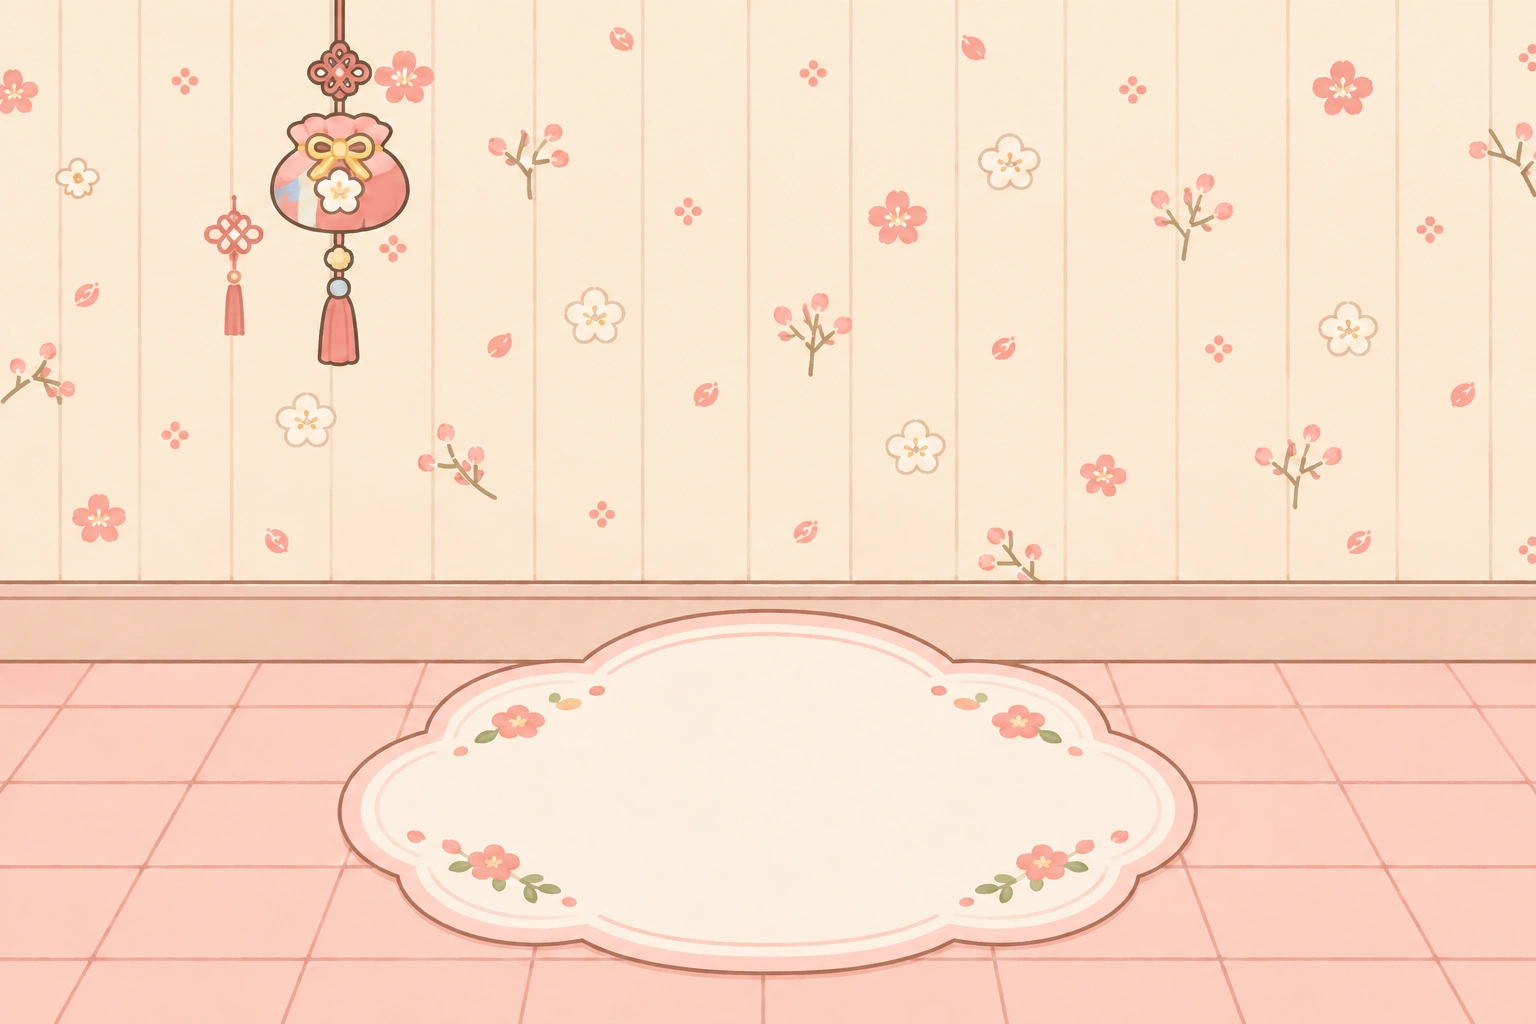
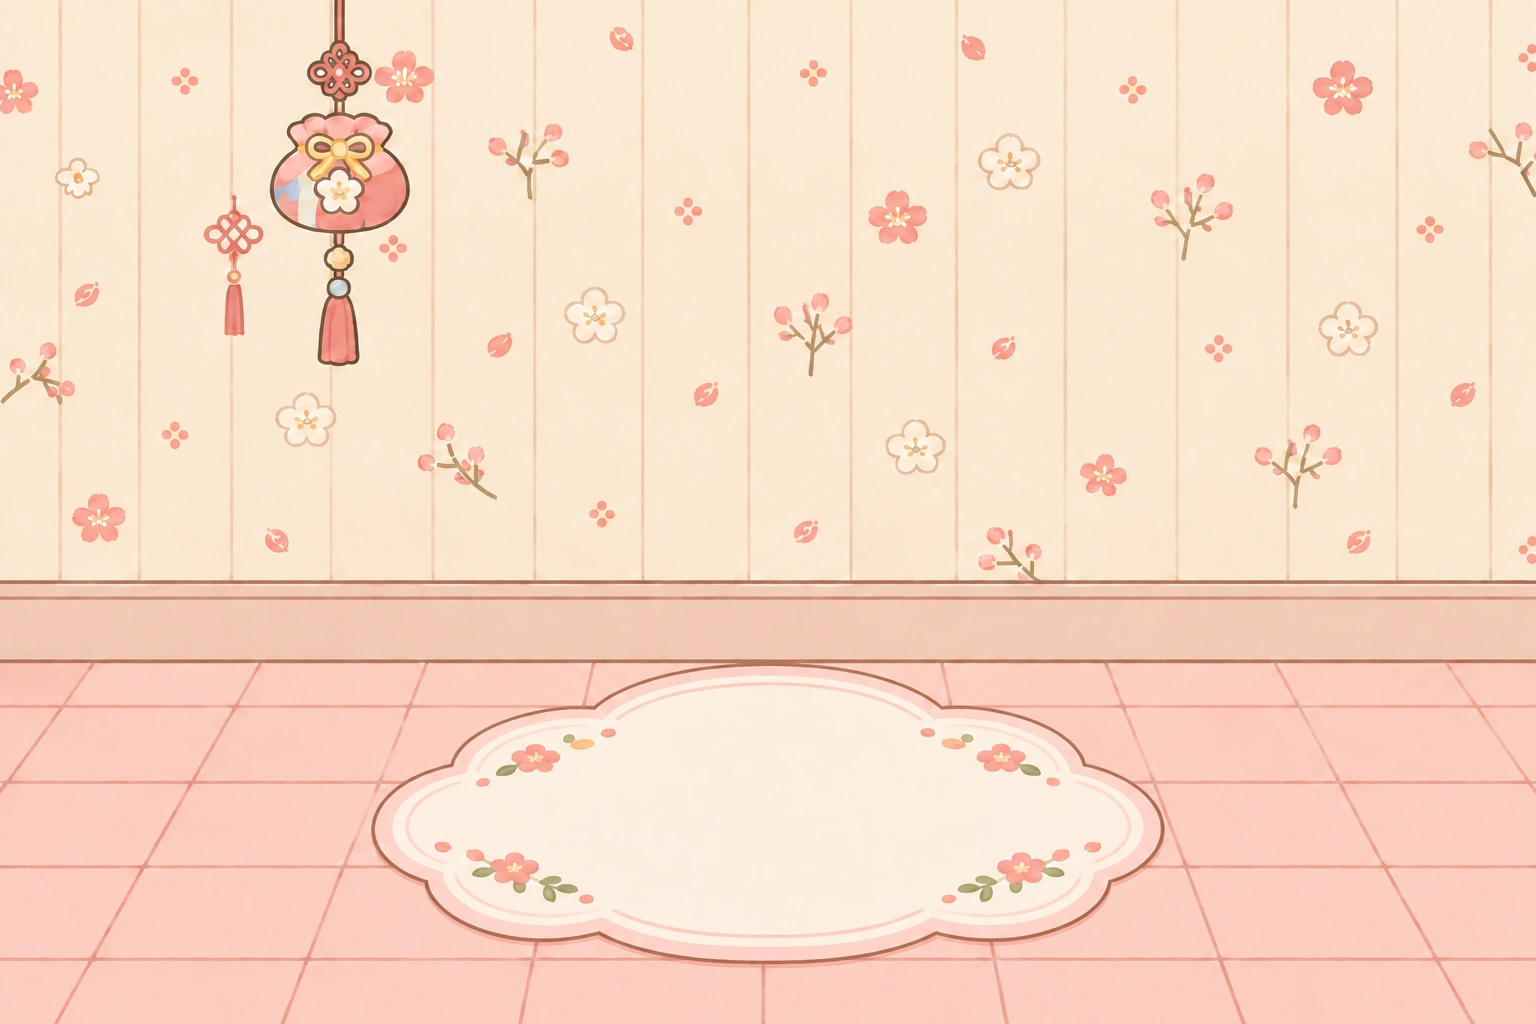
Integrate decor shop and refine room presentation

Changed region(s): [[0.2188, 0.5938, 0.7812, 0.9688]]

diff --git a/index.html b/index.html
@@ -625,7 +625,7 @@ input[type=date].inp,input[type=time].inp{min-height:52px;font-family:'Jua',sans
   #decoStage{height:clamp(170px,24dvh,212px)}
 }
 </style>
-<link rel="stylesheet" href="painted.css?v=20261006b">
+<link rel="stylesheet" href="painted.css?v=20261006c">
 </head>
 <body>
 <div id="app">
@@ -711,7 +711,7 @@ input[type=date].inp,input[type=time].inp{min-height:52px;font-family:'Jua',sans
       <div class="dl"><div class="preview stage" id="decoStage"><div class="wall"></div><div class="floor"></div><div class="rug"></div></div></div>
       <div class="dr">
         <div id="decoBanner"></div>
-        <div class="seg" id="decoSeg"><button data-t="cat">고양이</button><button data-t="frame">액자</button><button data-t="room">방</button><button data-t="shop">상점</button></div>
+        <div class="seg" id="decoSeg"><button data-t="cat">고양이</button><button data-t="frame">액자</button><button data-t="room">방</button></div>
         <div id="decoBody"></div>
       </div>
     </div>
@@ -1576,7 +1576,7 @@ function accIcon(id){return `<svg class="cat" viewBox="-40 -48 80 80">${headSVG(
 const ICONLINE='stroke="#5a4646" stroke-width="1.8" stroke-linejoin="round" stroke-linecap="round"';
 function badgeIcon(id){return paintedAccessoryIcon(id);}
 const LOCKICON='<svg viewBox="0 0 24 24"><rect x="5" y="11" width="14" height="9" rx="3" fill="#fff" stroke="#8b93ad" stroke-width="1.8"/><path d="M8 11V8a4 4 0 0 1 8 0v3" fill="none" stroke="#8b93ad" stroke-width="1.8" stroke-linecap="round"/></svg>';
-/* ---------- 꾸미기 탭: 고양이 / 액자 / 방 / 상점 ---------- */
+/* ---------- 꾸미기 탭: 고양이 / 액자 / 방 ---------- */
 let decoTab='cat';
 const daysN=()=>studyDays().length;
 const accOwned=a=>a.need!=null?daysN()>=a.need:S.bought.includes(a.id);
@@ -1595,7 +1595,7 @@ function renderDeco(){
   $('#decoBanner').innerHTML=seasonFree().map(({k,it})=>`<div class="banner"><div class="bi">${k==='item'?it.svg:PACC[it.id]}</div><div><b>${THEME_BY[it.theme].n} 무료 선물</b><span>${it.n}</span></div><button class="btn sub" data-fk="${k}" data-fid="${it.id}" style="color:#fff">받기</button></div>`).join('');
   $('#decoBanner').querySelectorAll('[data-fk]').forEach(b=>b.onclick=()=>buyItem(b.dataset.fk,LOOK[b.dataset.fk](b.dataset.fid),true));
   $('#decoSeg').querySelectorAll('button').forEach(b=>{b.classList.toggle('on',b.dataset.t===decoTab);b.onclick=()=>{decoTab=b.dataset.t;renderDeco()}});
-  ({cat:tabCat,frame:tabFrame,room:tabRoom,shop:tabShop})[decoTab]();
+  ({cat:tabCat,frame:tabFrame,room:tabRoom})[decoTab]();
 }
 function tabCat(){
   const themes=[['basic','기본 고양이'],['halloween','할로윈 고양이'],['chuseok','한가위 고양이'],['seollal','설날 고양이'],['christmas','크리스마스 고양이'],['spring','벚꽃 고양이']];
@@ -1607,23 +1607,34 @@ function tabCat(){
   $('#looks').querySelectorAll('button').forEach(b=>b.onclick=()=>{S.look=b.dataset.l;save();[homeCat,focusCat,decoCat].forEach(c=>c.setMood(c.mood));renderDeco()});
 }
 const frameSwatch=f=>`<div class="fsw" style="${frameStyle(f)}"><div class="fsi"></div></div>`;
-const roomSwatch=r=>`<div class="swr" style="--room-preview:url('${roomArtPath(r.id,roomLevel(r.id))}')"></div>`;
+const roomSwatch=(r,preview=false)=>`<div class="swr" style="--room-preview:url('${roomArtPath(r.id,preview?5:roomLevel(r.id))}')"></div>`;
+const decoBalance=()=>`<div class="bal"><svg viewBox="0 0 24 24"><use href="#i-churu"/></svg><span>츄르 ${S.churu}개</span></div>`;
+const buyableCard=(kind,it)=>{
+  return `<button class="roomb ${kind==='frame'?'fr':''}" data-buy-${kind}="${it.id}">${kind==='frame'?frameSwatch(it):roomSwatch(it,true)}<span class="rn">${it.n}</span><div class="need"><span class="cost"><svg viewBox="0 0 24 24"><use href="#i-churu"/></svg>${it.cost}</span>${kind==='room'?'<small>완성 모습 미리보기</small>':''}</div></button>`;
+};
 function tabFrame(){
-  $('#decoBody').innerHTML=`<h3>내 액자 <span class="note">— 모양이 다른 액자는 상점에서</span></h3>${S.look!=='photo'?'<p class="note" style="margin:-4px 0 10px">액자는 사진 냥이 모습일 때 보여요</p>':''}<div class="rooms" id="frs"></div>`;
+  const available=FRAMES.filter(f=>!frameOwned(f));
+  $('#decoBody').innerHTML=`<div class="shopbar"><h3 style="margin:0">액자</h3>${decoBalance()}</div>${S.look!=='photo'?'<p class="note" style="margin:0 0 12px">액자는 사진 냥이 모습일 때 보여요.</p>':''}
+    <h3>내 액자</h3><div class="rooms" id="frs"></div>
+    ${available.length?`<details class="deco-more"><summary>새 액자 구경하고 구매하기 <span>${available.length}종</span></summary><div class="rooms" id="frameStore">${available.map(f=>buyableCard('frame',f)).join('')}</div></details>`:''}`;
   $('#frs').innerHTML=FRAMES.filter(frameOwned).map(f=>{const on=S.frame===f.id;
     return `<button class="roomb fr ${on?'on':''}" data-f="${f.id}">${frameSwatch(f)}<span class="rn">${f.n}</span><div class="need">${on?'적용 중':'눌러서 적용'}</div></button>`}).join('');
   $('#frs').querySelectorAll('.roomb').forEach(b=>b.onclick=()=>{S.frame=b.dataset.f;applyFrame();afterDeco();decoCat.hearts(3);decoCat.face('pet',1000)});
+  $('#frameStore')?.querySelectorAll('[data-buy-frame]').forEach(b=>b.onclick=()=>buySheet('frame',FRAMES.find(f=>f.id===b.dataset.buyFrame),false));
 }
 function tabRoom(){
   const level=roomLevel(),next=level+1,rm=ROOMS.find(r=>r.id===S.room)||ROOMS[0];
-  $('#decoBody').innerHTML=`<p class="note" style="margin:0 0 14px">빈 방에서 시작해, 같은 그림에 물품이 하나씩 늘어나는 5단계 방이에요. 배치는 그림에 포함되어 있어요.</p><h3>방 테마</h3><div class="rooms" id="rms"></div>
+  const available=ROOMS.filter(r=>!roomOwned(r));
+  $('#decoBody').innerHTML=`<div class="shopbar"><h3 style="margin:0">방</h3>${decoBalance()}</div><p class="note" style="margin:0 0 14px">테마를 고른 뒤 빈 방부터 5단계까지 채워요. 물품은 방 그림에 포함돼요.</p><h3>내 방</h3><div class="rooms" id="rms"></div>
     <h3 style="margin-top:18px">${rm.n} · ${level}/5단계</h3><div class="room-levels" id="roomLevels"></div>
-    ${next<=5?`<button class="btn room-upgrade" id="roomUpgrade">${next}단계로 업그레이드 · 츄르 ${ROOM_LEVEL_COST[next]}개</button>`:'<p class="note">완성된 방이에요!</p>'}`;
+    ${next<=5?`<button class="btn room-upgrade" id="roomUpgrade">${next}단계로 업그레이드 · 츄르 ${ROOM_LEVEL_COST[next]}개</button>`:'<p class="note">완성된 방이에요!</p>'}
+    ${available.length?`<h3 style="margin-top:22px">새 방 테마</h3><p class="note">완성 모습을 미리 볼 수 있어요. 구매하면 빈 방에서 시작해요.</p><div class="rooms" id="roomStore">${available.map(r=>buyableCard('room',r)).join('')}</div>`:''}`;
   $('#rms').innerHTML=ROOMS.filter(roomOwned).map(r=>{const on=S.room===r.id;
     return `<button class="roomb ${on?'on':''}" data-r="${r.id}">${roomSwatch(r)}<span class="rn">${r.n}</span><div class="need">${on?'적용 중':'눌러서 적용'}</div></button>`}).join('');
   $('#rms').querySelectorAll('.roomb').forEach(b=>b.onclick=()=>{S.room=b.dataset.r;applyRoom();afterDeco();decoCat.hearts(3);decoCat.face('pet',1000)});
   $('#roomLevels').innerHTML=Array.from({length:6},(_,step)=>`<div class="room-level ${step===level?'on':''}"><div class="room-level-art" style="background-image:url('${roomArtPath(rm.id,step)}')"></div><b>${step===0?'빈 방':step+'단계'}</b><small>${step<=level?'보유 중':step===next?'다음 업그레이드':'잠겨 있어요'}</small></div>`).join('');
   if(next<=5)$('#roomUpgrade').onclick=()=>buyRoomUpgrade(rm,next);
+  $('#roomStore')?.querySelectorAll('[data-buy-room]').forEach(b=>b.onclick=()=>buySheet('room',ROOMS.find(r=>r.id===b.dataset.buyRoom),false));
 }
 function buyRoomUpgrade(rm,step){
   if(S.room!==rm.id||roomLevel(rm.id)+1!==step)return;
@@ -1637,46 +1648,13 @@ function buyRoomUpgrade(rm,step){
     closeModal();applyRoom();afterDeco();decoCat.hearts(5);toast(`${rm.n} ${step}단계가 되었어요!`);
   };
 }
-/* 상점: 테마별로 방·가구·장식·액자를 한자리에. 지금 철인 테마가 맨 앞. */
-function shopSections(){
-  const order=['study','play'],late=['deco','frame','color'];
-  const now=THEMES.filter(t=>inSeason(t)),rest=THEMES.filter(t=>t.season&&!inSeason(t));
-  return [...now,...THEMES.filter(t=>order.includes(t.id)),...THEMES.filter(t=>late.includes(t.id)),...rest];
-}
-function shopTile(k,it){
-  const own=ownedBy(k,it),free=!own&&seasonGiftAvailable(it),can=free||S.churu>=it.cost;
-  const foot=own?'보유 중':free?'<span class="cost free">이번 철 무료</span>':`<span class="cost"><svg viewBox="0 0 24 24"><use href="#i-churu"/></svg>${it.cost}</span>`;
-  const cls=own?'':('buy '+(can?'':'cant'));
-  if(k==='room')return `<button class="roomb ${own?'':(can?'':'cant')}" data-k="room" data-id="${it.id}">${roomSwatch(it)}<span class="rn">${it.n}</span><div class="need">${foot}</div></button>`;
-  if(k==='frame')return `<button class="roomb fr ${own?'':(can?'':'cant')}" data-k="frame" data-id="${it.id}">${frameSwatch(it)}<span class="rn">${it.n}</span><div class="need">${foot}</div></button>`;
-  const icon=k==='item'?`<div class="accplate ri-plate" style="--pc:#fff5f8">${it.svg}</div>`:`<div class="accplate">${badgeIcon(it.id)}</div>`;
-  const sub=k==='item'?RM_SLOT_N[it.slot]:slotLabel(it.slot);
-  return `<button class="accb ${cls}" data-k="${k}" data-id="${it.id}" style="--pc:${it.pc||'#fff2cf'}">${icon}${it.n}<div class="need">${foot}</div><div class="need slotn">${sub}</div></button>`;
-}
-function tabShop(){
-  const secs=shopSections();
-  const built=secs.map(th=>{
-    const tiles=[...ROOMS.filter(r=>r.theme===th.id&&r.cost>0).map(r=>shopTile('room',r)),
-      ...SHOP_ACC.filter(a=>a.theme===th.id).map(a=>shopTile('acc',a)),
-      ...FRAMES.filter(f=>f.theme===th.id&&f.cost>0).map(f=>shopTile('frame',f))];
-    if(!tiles.length)return null;
-    return {th,html:`<h3 class="shh" id="sh-${th.id}">${th.n}${inSeason(th)?' <em>지금 시즌</em>':th.season?` <span class="note" style="font-size:13px">${th.season[0][0].slice(5).replace('-','/')}쯤</span>`:''}</h3><div class="accs">${tiles.join('')}</div>`}}).filter(Boolean);
-  const body=built.map(b=>b.html).join('');
-  $('#decoBody').innerHTML=`<div class="shopbar"><h3 style="margin:0">상점</h3><div class="bal"><svg viewBox="0 0 24 24"><use href="#i-churu"/></svg><span>${S.churu}</span></div></div>
-    <div class="thnav">${built.map(({th:t})=>`<button class="${inSeason(t)?'now':''}" data-th="${t.id}">${t.n}</button>`).join('')}</div>${body}`;
-  $('#decoBody').querySelectorAll('.thnav button').forEach(b=>b.onclick=()=>{const e=document.getElementById('sh-'+b.dataset.th);e&&e.scrollIntoView({behavior:'smooth',block:'start'})});
-  $('#decoBody').querySelectorAll('[data-k]').forEach(b=>b.onclick=()=>{
-    const k=b.dataset.k,it=LOOK[k](b.dataset.id);
-    if(ownedBy(k,it)){decoTab={acc:'cat',frame:'frame',room:'room',item:'room'}[k];renderDeco();toast(it.n+' — 이미 있어요. 여기서 바꿔요');return}
-    buySheet(k,it,!!seasonGiftAvailable(it))});
-}
-/* 상점은 누르자마자 사지 않는다: 미리보기 → '구매하기'를 한 번 더 눌러야 산다.
+/* 액자·방 목록에서 누르자마자 사지 않는다: 미리보기 → '구매하기'를 한 번 더 눌러야 산다.
    (2026-09-28 지연 피드백 — 액자 미리 보려고 눌렀다가 12츄르가 바로 나감) */
 function previewHTML(kind,it){
   const rm=kind==='room'?it:(ROOMS.find(x=>x.id===S.room)||ROOMS[0]);
   const fr=kind==='frame'?it:(FRAMES.find(x=>x.id===S.frame)||FRAMES[0]);
   const photo=S.look==='photo'||kind==='frame';
-  const vars=`--room-art:url('${roomArtPath(rm.id,roomLevel(rm.id))}');--room-wall:${rm.wall};--room-floor1:${rm.f1};--room-floor2:${rm.f2};--room-border:${rm.bd};--room-rug:${rm.rug};${frameStyle(fr)}`;
+  const vars=`--room-art:url('${roomArtPath(rm.id,kind==='room'&&!roomOwned(rm)?5:roomLevel(rm.id))}');--room-wall:${rm.wall};--room-floor1:${rm.f1};--room-floor2:${rm.f2};--room-border:${rm.bd};--room-rug:${rm.rug};${frameStyle(fr)}`;
   const cat=photo?stickerHTML('happy'):catSVG().replace('class="cat painted-cat"','class="cat painted-cat happyface"');
   return `<div class="stage bpv" style="${vars}"><div class="wall"></div><div class="floor"></div><div class="rug"></div>
     <div class="bpcat ${photo?'photo':''}">${cat}</div></div>`;
@@ -1689,6 +1667,7 @@ function buySheet(kind,it,free){
     <div class="bpcost"><svg viewBox="0 0 24 24"><use href="#i-churu"/></svg>${free?'무료 선물':cost}</div>
     <p class="note" style="margin:10px 0 0">${free?'이번 철에만 무료로 받아요':can?`지금 츄르 ${S.churu}개 → 사고 나면 ${S.churu-cost}개`:`츄르가 ${cost-S.churu}개 모자라요. 조금만 더 모아 봐요!`}</p>
     ${note?`<p class="note" style="margin:4px 0 0">${note}</p>`:''}
+    ${kind==='room'?'<p class="note" style="margin:4px 0 0">완성 모습 미리보기예요. 구매 후에는 빈 방 0단계부터 채워요.</p>':''}
     ${kind==='frame'&&S.look!=='photo'?'<p class="note" style="margin:4px 0 0">액자는 사진 냥이 모습일 때 보여요</p>':''}
     ${kind==='acc'&&S.look!=='photo'&&!DRAW_ACC.includes(it.id)?'<p class="note" style="margin:4px 0 0">이 장식은 사진 냥이 모습일 때 보여요</p>':''}
     ${can?`<div class="row" style="margin-top:16px"><button class="btn sub ghost" id="bp-no">${free?'나중에':'안 살래요'}</button><button class="btn sub" id="bp-yes" style="color:#fff">${free?'받기':'구매하기'}</button></div>`

diff --git a/painted.css b/painted.css
@@ -1,23 +1,23 @@
 /* Real illustration assets, shared by the room, shop and purchase preview. */
-.stage{background:#faf0dc var(--room-art,url('assets/painted/empty-room.png')) center/100% 100% no-repeat!important;isolation:isolate}
+.stage{background:#faf0dc var(--room-art,url('assets/painted/empty-room.png')) center/cover no-repeat!important;isolation:isolate}
 .stage::before{display:none}
 .stage .wall,.stage .floor,.stage .rug{display:none}
-#homeStage{height:clamp(300px,70vw,400px);margin:10px -16px 8px;border-radius:22px}
-#decoStage{height:clamp(300px,70vw,380px)}
-.stage.bpv{height:320px}
+#homeStage{height:auto;aspect-ratio:3/2;margin:10px -16px 8px;border-radius:22px}
+#decoStage{height:auto;aspect-ratio:3/2}
+.stage.bpv{height:auto;aspect-ratio:3/2}
 .painted-asset{overflow:hidden!important;display:block;width:100%;height:auto}
 .rmwrap{z-index:1}
 .ri-wallA{left:5%;top:7%}.ri-wallB{right:5%;top:7%}
 .ri-floorL{left:4%;bottom:5%}.ri-floorR{right:4%;bottom:5%}
 .ri-floorC{bottom:2%;z-index:0}
-.catwrap{width:160px;height:160px;bottom:20px;z-index:2}
-#decoStage .catwrap{width:160px;height:160px;bottom:22px}
+.catwrap{width:160px;height:160px;bottom:25%;z-index:2}
+#decoStage .catwrap{width:160px;height:160px;bottom:25%}
 #focus{overflow-y:auto}
-#focus .stage{flex:none;aspect-ratio:4/3;height:auto;min-height:0;max-width:760px;border-radius:22px}
+#focus .stage{flex:none;aspect-ratio:3/2;height:auto;min-height:0;max-width:760px;border-radius:22px}
 #focus .ring{flex:none}
 .bpcat{width:150px;height:150px;margin-left:-75px;bottom:18px;z-index:2}
 .mini{width:140px;height:140px}
-.bubble{bottom:195px;z-index:4}
+.bubble{bottom:calc(25% + 150px);z-index:4}
 .painted-cat .paint-pose{display:none}
 .painted-cat .paint-idle{display:inline}
 .painted-cat .paint-idle .paint-art,.painted-cat .paint-happy .paint-art{transform:scale(.83);transform-origin:100px 200px}
@@ -45,20 +45,28 @@
 .room-levels{display:grid;grid-template-columns:repeat(auto-fit,minmax(145px,1fr));gap:10px;margin:12px 0 16px}
 .room-level{border:2px solid #f1dce2;border-radius:16px;overflow:hidden;background:#fff;text-align:center;padding-bottom:8px}
 .room-level.on{border-color:#dba2ac}
-.room-level-art{width:100%;aspect-ratio:4/3;background:#f8f2e7 center/100% 100% no-repeat}
+.room-level-art{width:100%;aspect-ratio:3/2;background:#f8f2e7 center/cover no-repeat}
 .room-level b,.room-level small{display:block;font-family:'Jua',sans-serif}.room-level b{font-size:15px;margin-top:5px}.room-level small{font-size:12px;color:#a28c8d}
 .room-upgrade{width:100%;max-width:440px}
+.deco-more{margin-top:18px;border:2px solid #f1dce2;border-radius:17px;background:#fff;overflow:hidden}
+.deco-more summary{cursor:pointer;list-style:none;padding:15px 16px;font-family:'Jua',sans-serif;font-size:17px;color:#70584f;display:flex;justify-content:space-between;gap:8px}
+.deco-more summary::-webkit-details-marker{display:none}
+.deco-more summary span{font-size:13px;color:#a28c8d}
+.deco-more[open] .rooms{padding:0 12px 12px;margin:0}
+.roomb .need small{display:block;font-size:11px;color:#a28c8d;margin-top:3px}
+#rms,#frs{grid-template-columns:repeat(auto-fill,minmax(min(180px,100%),220px))}
 .rchip .painted-asset{width:48px;height:48px;object-fit:contain}
 .banner .painted-asset{width:52px;max-height:60px}
-.swr,.roomb .swr{background:var(--room-preview,url('assets/painted/empty-room.png')) center/100% 100% no-repeat}
+.swr,.roomb .swr{height:auto;aspect-ratio:3/2;background:var(--room-preview,url('assets/painted/empty-room.png')) center/cover no-repeat}
 @media(min-width:900px){
-  #homeStage{height:clamp(400px,calc(100vh / var(--zm) - 90px),560px);margin:0}
-  #decoStage{height:340px}
-  #focus.on{display:grid;grid-template-columns:minmax(240px,300px) minmax(0,980px);grid-template-rows:auto auto 1fr auto;column-gap:28px;justify-content:center;justify-items:center;align-items:center}
+  #app{max-width:1200px}
+  #homeStage{height:auto;aspect-ratio:3/2;margin:0}
+  #decoStage{height:auto;aspect-ratio:3/2}
+  #focus.on{display:grid;grid-template-columns:minmax(240px,300px) minmax(0,980px);grid-template-rows:auto auto minmax(0,1fr) auto;column-gap:28px;justify-content:center;justify-items:center;align-items:center}
   #focus .fsub{grid-column:1;grid-row:1;align-self:end}
   #focus .ring{grid-column:1;grid-row:2;margin:12px 0}
   #focus .fline{grid-column:1;grid-row:3;align-self:start;max-width:300px}
-  #focus .stage{grid-column:2;grid-row:1/4;width:min(100%,980px,calc((100vh - 150px) * 1.333333));max-width:980px;max-height:none;align-self:center}
+  #focus .stage{grid-column:2;grid-row:1/4;width:min(100%,980px,calc((100dvh - 210px) * 1.5));max-width:980px;max-height:none;align-self:center}
   #focus .calmwrap{grid-column:2;grid-row:1/4}
   #focus .fbtns{grid-column:1/-1;grid-row:4;max-width:520px;margin-top:12px}
 }
@@ -69,11 +77,12 @@
   #focus .stage{width:100%;max-height:none}
   #focus .fbtns{margin-top:12px}
 }
+#focus .fbtns{position:sticky;bottom:0;z-index:8;padding:8px 0;background:var(--bg)}
 @media(prefers-reduced-motion:reduce){.painted-cat .paint-pose{animation:none!important}}
 
 /* The decoration panel must fit inside its desktop column at every zoom level. */
 @media(min-width:900px){
-  .decogrid{grid-template-columns:minmax(0,340px) minmax(0,1fr);max-width:100%}
+  .decogrid{grid-template-columns:minmax(0,54%) minmax(0,1fr);max-width:100%}
   .decogrid>*,#decoBody,#slots{min-width:0}
   .rooms{grid-template-columns:repeat(auto-fit,minmax(min(150px,100%),1fr))}
   #decoBody .note{overflow-wrap:anywhere}

diff --git a/sw.js b/sw.js
@@ -2,7 +2,7 @@
    - 오프라인에서도 열리게 앱 껍데기를 캐시
    - 서버(GitHub Actions)는 "깨우기" 푸시만 보낸다. 무슨 말을 할지는
      기기에 저장된 공부 기록(state.json)을 보고 여기서 고른다. */
-const VER = 'nyang-v20-painted-room-levels';
+const VER = 'nyang-v21-integrated-decor-and-room-fit';
 const SHELL = ['./', 'index.html', 'record-safety.js', 'samun.js', 'deco.js', 'painted.js', 'painted.css', 'assets/painted/lemon-poses.png', 'assets/painted/room-basic-0.webp', 'samun_cards.json', 'samun_idmap.json', 'manifest.json', 'icons/icon-192-v2.png', 'icons/icon-180-v2.png', 'icons/icon-512-v2.png', 'icons/icon-maskable-512-v2.png', ...['cat-halloween','cat-chuseok','cat-christmas','cat-spring','cat-seollal'].map(id=>'assets/painted/'+id+'.webp'), ...['frames-a','frames-b'].map(id=>'assets/painted/'+id+'.png')];
 
 self.addEventListener('install', e => {
